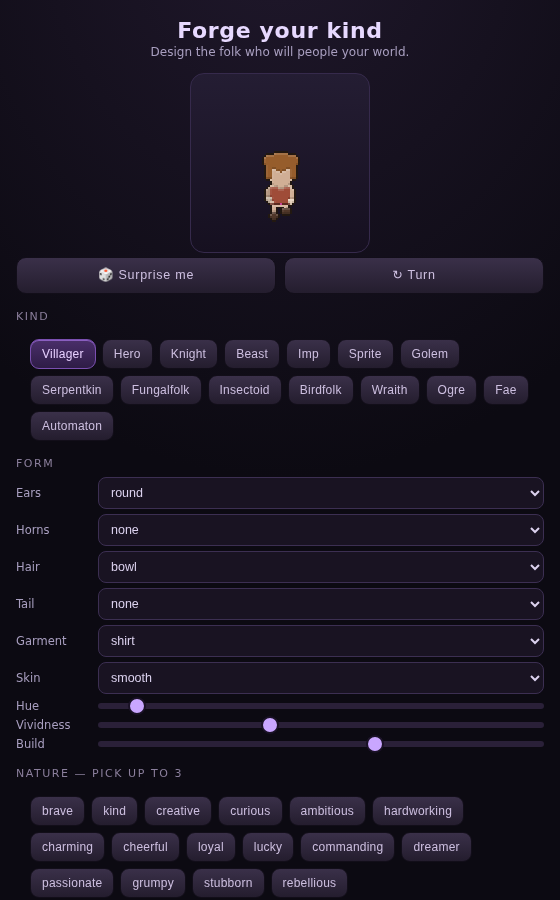
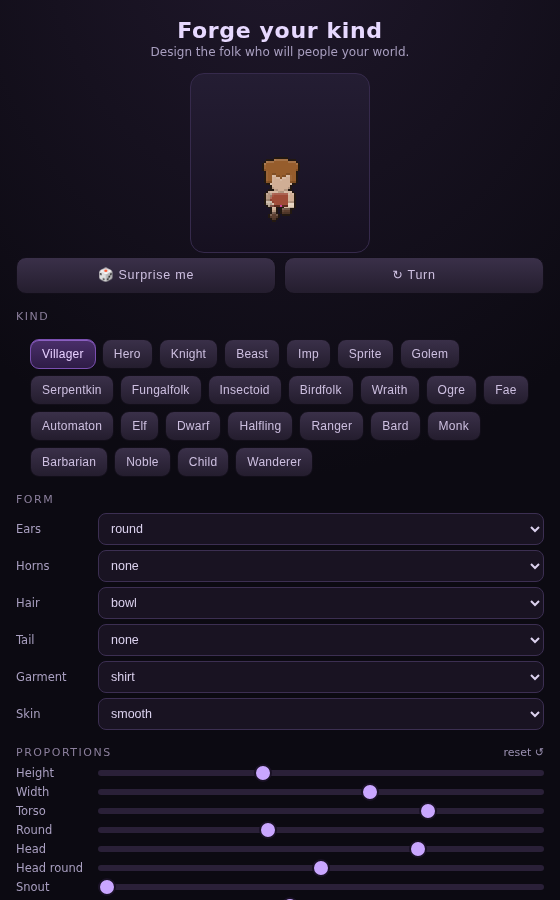
Creator: proportion sliders, smaller default bodies & 10 humanoid presets (#72)
Bring the Creature Forge's body-part size sliders back into the Forge
Your Kind screen — a Proportions section with height, width, torso,
roundness, head, snout, ear/horn size, arm & leg length/thickness,
stance, feet and tail size, plus a reset. Values sync from the picked
preset and drive the live preview.

Shrink bodies overall: the default build drops (bodyH 8->6, bodyW
4->3.5, legLen 6.5->6) so folk read smaller and less chunky by default,
while the sliders still reach the old sizes.

Add 10 humanoid preset kinds: Elf, Dwarf, Halfling, Ranger, Bard, Monk,
Barbarian, Noble, Child and Wanderer — people-shaped, smaller-framed
variations built for populating settlements.

Claude-Session: https://claude.ai/code/session_01LBJLomQRzXkWuF2xNSsFeU

Changed region(s): [[0.0304, 0.4356, 0.9714, 1.0], [0.4554, 0.1556, 0.5464, 0.2489], [0.0304, 0.6222, 0.0911, 0.7156]]

diff --git a/dist/seed-and-sage.html b/dist/seed-and-sage.html
@@ -1400,8 +1400,8 @@ const SCHEMA=[
   {k:'crest',g:'Head',l:'Crest / mohawk',t:'c',d:false},
   {k:'hairType',g:'Head',l:'Hair',t:'sel',opts:['none','tuft','spiky','wild','swept','mohawk','curly','topknot','ponytail','bowl','long','braids','dreads','afro','fauxhawk','bun','pixie','fringe','horns','flame','tendrils'],d:'bowl'},
   {k:'hairHue',g:'Head',l:'Hair hue',t:'r',min:0,max:360,st:1,d:25},
-  {k:'bodyW',g:'Body',l:'Width',t:'r',min:2,max:5.25,st:.25,d:4},
-  {k:'bodyH',g:'Body',l:'Height',t:'r',min:4.5,max:9.5,st:.5,d:8},
+  {k:'bodyW',g:'Body',l:'Width',t:'r',min:2,max:5.25,st:.25,d:3.5},
+  {k:'bodyH',g:'Body',l:'Height',t:'r',min:4,max:9.5,st:.5,d:6},
   {k:'taper',g:'Body',l:'Taper (pear ↔ buff)',t:'r',min:-.35,max:-.15,st:.05,d:-.25},
   {k:'bodyRound',g:'Body',l:'Roundness',t:'r',min:.35,max:.75,st:.01,d:.5},
   {k:'belly',g:'Body',l:'Belly patch',t:'c',d:true},
@@ -1409,7 +1409,7 @@ const SCHEMA=[
   {k:'armThick',g:'Arms',l:'Thickness',t:'r',min:1.2,max:1.6,st:.1,d:1.4},
   {k:'handSize',g:'Arms',l:'Hand size',t:'r',min:1.3,max:1.8,st:.1,d:1.5},
   {k:'armSpread',g:'Arms',l:'Shoulder spread',t:'r',min:0,max:1,st:.25,d:.5},
-  {k:'legLen',g:'Legs',l:'Length',t:'r',min:6,max:7,st:.5,d:6.5},
+  {k:'legLen',g:'Legs',l:'Length',t:'r',min:5,max:7,st:.5,d:6},
   {k:'legThick',g:'Legs',l:'Thickness',t:'r',min:1.4,max:2,st:.1,d:1.7},
   {k:'stance',g:'Legs',l:'Stance width',t:'r',min:1.5,max:2.5,st:.25,d:2.25},
   {k:'footSize',g:'Legs',l:'Foot size',t:'r',min:1.8,max:2.4,st:.1,d:2.1},
@@ -1986,6 +1986,38 @@ const PRESETS={
     cloth:'none',belt:false,chest:'full',helmet:'full',pauldrons:true,boots:true,gauntlets:true,shoes:false,
     spikes:'none',tex:'smooth',attackStyle:'slash',bodyW:4.25,bodyH:8,taper:-.3,bodyRound:.4,legLen:6.5,
     headSize:.3,headRound:.65,hue:210,sat:12,lit:56,metalHue:210,metalLit:60},
+  // ---- humanoid folk (smaller, people-shaped) ----
+  Elf:{earType:'pointed',earSize:3.5,hornType:'none',tailType:'none',hairType:'ponytail',hairHue:40,snout:0,
+    cloth:'tunic',belt:true,chest:'none',helmet:'none',boots:true,shoes:true,spikes:'none',tex:'smooth',
+    attackStyle:'stab',bodyW:3,bodyH:6.5,taper:-.2,legLen:7,armLen:5,headSize:.5,hue:28,sat:26,lit:70,clothHue:150},
+  Dwarf:{earType:'round',earSize:2,hornType:'none',tailType:'none',hairType:'wild',hairHue:20,snout:0,
+    cloth:'tunic',belt:true,chest:'half',helmet:'none',boots:true,shoes:true,spikes:'none',tex:'smooth',
+    attackStyle:'slash',bodyW:4.5,bodyH:4.5,taper:-.2,legLen:5,legThick:2,armLen:4.5,armThick:1.6,headSize:.6,
+    hue:22,sat:34,lit:60,clothHue:20,metalHue:30},
+  Halfling:{earType:'round',earSize:2.5,hornType:'none',tailType:'none',hairType:'curly',hairHue:30,snout:0,
+    cloth:'shirt',belt:true,chest:'none',helmet:'none',boots:false,shoes:false,spikes:'none',tex:'smooth',
+    attackStyle:'stab',bodyW:3.25,bodyH:4,taper:-.2,legLen:5,armLen:4,headSize:.8,headRound:.9,hue:30,sat:36,lit:66},
+  Ranger:{earType:'round',earSize:2,hornType:'none',tailType:'none',hairType:'swept',hairHue:18,snout:0,
+    cloth:'tunic',belt:true,chest:'none',helmet:'none',boots:true,shoes:true,spikes:'none',tex:'smooth',
+    attackStyle:'stab',bodyW:3.5,bodyH:6,legLen:6.5,armLen:5,headSize:.5,hue:110,sat:30,lit:48,clothHue:110},
+  Bard:{earType:'pointed',earSize:2.5,hornType:'none',tailType:'none',hairType:'topknot',hairHue:280,snout:0,
+    cloth:'robe',belt:true,chest:'none',helmet:'none',boots:false,shoes:true,spikes:'none',tex:'smooth',
+    attackStyle:'cast',bodyW:3.25,bodyH:6,legLen:6,armLen:4.5,headSize:.5,hue:300,sat:40,lit:64,clothHue:290},
+  Monk:{earType:'round',earSize:2,hornType:'none',tailType:'none',hairType:'none',snout:0,
+    cloth:'robe',belt:true,chest:'none',helmet:'none',boots:false,shoes:false,spikes:'none',tex:'smooth',
+    attackStyle:'claw',bodyW:3.5,bodyH:6,legLen:6,armLen:5,headSize:.55,headRound:.92,hue:32,sat:24,lit:58,clothHue:32},
+  Barbarian:{earType:'round',earSize:2,hornType:'none',tailType:'none',hairType:'mohawk',hairHue:15,snout:0,
+    cloth:'none',belt:true,chest:'none',helmet:'none',pauldrons:true,boots:true,shoes:false,spikes:'none',tex:'fur',texAmt:.5,
+    attackStyle:'slash',bodyW:4.5,bodyH:6.5,taper:-.3,legLen:6,legThick:2,armLen:5,armThick:1.6,headSize:.45,hue:20,sat:30,lit:56},
+  Noble:{earType:'round',earSize:2,hornType:'none',tailType:'none',hairType:'bun',hairHue:45,snout:0,
+    cloth:'robe',belt:true,chest:'none',helmet:'none',boots:false,shoes:true,gauntlets:false,spikes:'none',tex:'smooth',
+    attackStyle:'cast',bodyW:3.25,bodyH:6.5,legLen:6.5,armLen:4.5,headSize:.5,hue:270,sat:38,lit:62,clothHue:275,metalHue:45},
+  Child:{earType:'round',earSize:2.5,hornType:'none',tailType:'none',hairType:'bowl',hairHue:28,snout:0,
+    cloth:'shirt',belt:false,chest:'none',helmet:'none',boots:false,shoes:true,spikes:'none',tex:'smooth',
+    attackStyle:'stab',bodyW:3,bodyH:4,taper:-.15,legLen:5,armLen:4,headSize:.9,headRound:.92,footSize:1.9,hue:30,sat:40,lit:68},
+  Wanderer:{earType:'pointed',earSize:2.5,hornType:'none',tailType:'none',hairType:'fringe',hairHue:12,snout:0,
+    cloth:'robe',belt:true,chest:'none',helmet:'none',boots:true,shoes:true,spikes:'none',tex:'smooth',
+    attackStyle:'stab',bodyW:3.5,bodyH:6,legLen:6,armLen:4.5,headSize:.5,hue:35,sat:22,lit:52,clothHue:35},
 };
 
 function rasterToImageData(r){
@@ -16024,6 +16056,13 @@ const Creator = (function(){
     hardy:{n:'Hardy',d:'faster stamina'},
   };
   const PARTS=[['earType','Ears'],['hornType','Horns'],['hairType','Hair'],['tailType','Tail'],['cloth','Garment'],['tex','Skin']];
+  // body-part size sliders (brought back from the Creature Forge)
+  const PROPS=[['bodyH','Height'],['bodyW','Width'],['taper','Torso'],['bodyRound','Round'],
+    ['headSize','Head'],['headRound','Head round'],['snout','Snout'],
+    ['earSize','Ear size'],['hornSize','Horn size'],
+    ['armLen','Arm len'],['armThick','Arm thick'],['handSize','Hands'],
+    ['legLen','Leg len'],['legThick','Leg thick'],['stance','Stance'],['footSize','Feet'],
+    ['tailSize','Tail size']];
   const TRAIT_KEYS=['brave','kind','creative','curious','ambitious','hardworking','charming','cheerful','loyal','lucky','commanding','dreamer','passionate','grumpy','stubborn','rebellious'];
   const MAXTRAITS=3, MAXABIL=2;
 
@@ -16067,9 +16106,10 @@ const Creator = (function(){
       <div class="frow"><button class="btn" id="fRand">🎲 Surprise me</button><button class="btn" id="fSpin">↻ Turn</button></div>
       <div class="fsec">Kind</div><div class="chips" id="fPresets"></div>
       <div class="fsec">Form</div><div id="fParts"></div>
+      <div class="fsec">Proportions <span id="fPropReset" style="float:right;color:#9a8fb0;cursor:pointer;letter-spacing:0;text-transform:none">reset ↺</span></div><div id="fProps"></div>
+      <div class="fsec">Colour</div>
       <div class="prow"><label>Hue</label><input type="range" id="fHue" min="0" max="360" step="1"></div>
       <div class="prow"><label>Vividness</label><input type="range" id="fSat" min="0" max="100" step="1"></div>
-      <div class="prow"><label>Build</label><input type="range" id="fSize" min="5.5" max="9.5" step="0.5"></div>
       <div class="fsec">Nature — pick up to ${MAXTRAITS}</div><div class="chips" id="fTraits"></div>
       <div class="fsec">Gift — pick up to ${MAXABIL}</div><div class="chips" id="fAbil"></div>
       <button id="fEnter">Shape your world →</button>
@@ -16099,10 +16139,19 @@ const Creator = (function(){
     for(const k in ABIL){ const b=document.createElement('button'); b.className='chip';
       b.innerHTML=ABIL[k].n+'<small>'+ABIL[k].d+'</small>'; b.dataset.abil=k;
       b.onclick=()=>toggleAbil(k,b); ac.appendChild(b); }
+    // proportion sliders (min/max/step read from the forge schema)
+    const props=$('fProps');
+    for(const [k,label] of PROPS){ const s=CF.SCHEMA.find(x=>x.k===k); if(!s)continue;
+      const row=document.createElement('div'); row.className='prow';
+      const l=document.createElement('label'); l.textContent=label;
+      const inp=document.createElement('input'); inp.type='range'; inp.id='fprop_'+k;
+      inp.min=s.min; inp.max=s.max; inp.step=s.st;
+      inp.oninput=()=>{ params[k]=+inp.value; rebuild(); };
+      row.appendChild(l); row.appendChild(inp); props.appendChild(row); }
+    $('fPropReset').onclick=()=>{ const d=CF.defaultParams(); for(const[k] of PROPS)params[k]=d[k]; rebuild(); syncControls(); };
     // sliders
     $('fHue').oninput=()=>{ params.hue=+$('fHue').value; rebuild(); };
     $('fSat').oninput=()=>{ params.sat=+$('fSat').value; rebuild(); };
-    $('fSize').oninput=()=>{ params.bodyH=+$('fSize').value; rebuild(); };
     $('fRand').onclick=randomize;
     $('fSpin').onclick=()=>{ pvDir=(pvDir+1)%8; };
     $('fEnter').onclick=enter;
@@ -16110,7 +16159,8 @@ const Creator = (function(){
 
   function syncControls(){
     for(const [k] of PARTS){ const sel=$('fpart_'+k); if(sel)sel.value=params[k]; }
-    $('fHue').value=params.hue; $('fSat').value=params.sat; $('fSize').value=params.bodyH;
+    for(const [k] of PROPS){ const inp=$('fprop_'+k); if(inp&&params[k]!=null)inp.value=params[k]; }
+    $('fHue').value=params.hue; $('fSat').value=params.sat;
     for(const b of $('fPresets').children) b.classList.toggle('on', b.dataset.preset===params._preset);
   }
   function setPreset(name){ params=baseParams(name); params._preset=name; rebuild(); syncControls(); }

diff --git a/js/forge.js b/js/forge.js
@@ -104,8 +104,8 @@ const SCHEMA=[
   {k:'crest',g:'Head',l:'Crest / mohawk',t:'c',d:false},
   {k:'hairType',g:'Head',l:'Hair',t:'sel',opts:['none','tuft','spiky','wild','swept','mohawk','curly','topknot','ponytail','bowl','long','braids','dreads','afro','fauxhawk','bun','pixie','fringe','horns','flame','tendrils'],d:'bowl'},
   {k:'hairHue',g:'Head',l:'Hair hue',t:'r',min:0,max:360,st:1,d:25},
-  {k:'bodyW',g:'Body',l:'Width',t:'r',min:2,max:5.25,st:.25,d:4},
-  {k:'bodyH',g:'Body',l:'Height',t:'r',min:4.5,max:9.5,st:.5,d:8},
+  {k:'bodyW',g:'Body',l:'Width',t:'r',min:2,max:5.25,st:.25,d:3.5},
+  {k:'bodyH',g:'Body',l:'Height',t:'r',min:4,max:9.5,st:.5,d:6},
   {k:'taper',g:'Body',l:'Taper (pear ↔ buff)',t:'r',min:-.35,max:-.15,st:.05,d:-.25},
   {k:'bodyRound',g:'Body',l:'Roundness',t:'r',min:.35,max:.75,st:.01,d:.5},
   {k:'belly',g:'Body',l:'Belly patch',t:'c',d:true},
@@ -113,7 +113,7 @@ const SCHEMA=[
   {k:'armThick',g:'Arms',l:'Thickness',t:'r',min:1.2,max:1.6,st:.1,d:1.4},
   {k:'handSize',g:'Arms',l:'Hand size',t:'r',min:1.3,max:1.8,st:.1,d:1.5},
   {k:'armSpread',g:'Arms',l:'Shoulder spread',t:'r',min:0,max:1,st:.25,d:.5},
-  {k:'legLen',g:'Legs',l:'Length',t:'r',min:6,max:7,st:.5,d:6.5},
+  {k:'legLen',g:'Legs',l:'Length',t:'r',min:5,max:7,st:.5,d:6},
   {k:'legThick',g:'Legs',l:'Thickness',t:'r',min:1.4,max:2,st:.1,d:1.7},
   {k:'stance',g:'Legs',l:'Stance width',t:'r',min:1.5,max:2.5,st:.25,d:2.25},
   {k:'footSize',g:'Legs',l:'Foot size',t:'r',min:1.8,max:2.4,st:.1,d:2.1},
@@ -690,6 +690,38 @@ const PRESETS={
     cloth:'none',belt:false,chest:'full',helmet:'full',pauldrons:true,boots:true,gauntlets:true,shoes:false,
     spikes:'none',tex:'smooth',attackStyle:'slash',bodyW:4.25,bodyH:8,taper:-.3,bodyRound:.4,legLen:6.5,
     headSize:.3,headRound:.65,hue:210,sat:12,lit:56,metalHue:210,metalLit:60},
+  // ---- humanoid folk (smaller, people-shaped) ----
+  Elf:{earType:'pointed',earSize:3.5,hornType:'none',tailType:'none',hairType:'ponytail',hairHue:40,snout:0,
+    cloth:'tunic',belt:true,chest:'none',helmet:'none',boots:true,shoes:true,spikes:'none',tex:'smooth',
+    attackStyle:'stab',bodyW:3,bodyH:6.5,taper:-.2,legLen:7,armLen:5,headSize:.5,hue:28,sat:26,lit:70,clothHue:150},
+  Dwarf:{earType:'round',earSize:2,hornType:'none',tailType:'none',hairType:'wild',hairHue:20,snout:0,
+    cloth:'tunic',belt:true,chest:'half',helmet:'none',boots:true,shoes:true,spikes:'none',tex:'smooth',
+    attackStyle:'slash',bodyW:4.5,bodyH:4.5,taper:-.2,legLen:5,legThick:2,armLen:4.5,armThick:1.6,headSize:.6,
+    hue:22,sat:34,lit:60,clothHue:20,metalHue:30},
+  Halfling:{earType:'round',earSize:2.5,hornType:'none',tailType:'none',hairType:'curly',hairHue:30,snout:0,
+    cloth:'shirt',belt:true,chest:'none',helmet:'none',boots:false,shoes:false,spikes:'none',tex:'smooth',
+    attackStyle:'stab',bodyW:3.25,bodyH:4,taper:-.2,legLen:5,armLen:4,headSize:.8,headRound:.9,hue:30,sat:36,lit:66},
+  Ranger:{earType:'round',earSize:2,hornType:'none',tailType:'none',hairType:'swept',hairHue:18,snout:0,
+    cloth:'tunic',belt:true,chest:'none',helmet:'none',boots:true,shoes:true,spikes:'none',tex:'smooth',
+    attackStyle:'stab',bodyW:3.5,bodyH:6,legLen:6.5,armLen:5,headSize:.5,hue:110,sat:30,lit:48,clothHue:110},
+  Bard:{earType:'pointed',earSize:2.5,hornType:'none',tailType:'none',hairType:'topknot',hairHue:280,snout:0,
+    cloth:'robe',belt:true,chest:'none',helmet:'none',boots:false,shoes:true,spikes:'none',tex:'smooth',
+    attackStyle:'cast',bodyW:3.25,bodyH:6,legLen:6,armLen:4.5,headSize:.5,hue:300,sat:40,lit:64,clothHue:290},
+  Monk:{earType:'round',earSize:2,hornType:'none',tailType:'none',hairType:'none',snout:0,
+    cloth:'robe',belt:true,chest:'none',helmet:'none',boots:false,shoes:false,spikes:'none',tex:'smooth',
+    attackStyle:'claw',bodyW:3.5,bodyH:6,legLen:6,armLen:5,headSize:.55,headRound:.92,hue:32,sat:24,lit:58,clothHue:32},
+  Barbarian:{earType:'round',earSize:2,hornType:'none',tailType:'none',hairType:'mohawk',hairHue:15,snout:0,
+    cloth:'none',belt:true,chest:'none',helmet:'none',pauldrons:true,boots:true,shoes:false,spikes:'none',tex:'fur',texAmt:.5,
+    attackStyle:'slash',bodyW:4.5,bodyH:6.5,taper:-.3,legLen:6,legThick:2,armLen:5,armThick:1.6,headSize:.45,hue:20,sat:30,lit:56},
+  Noble:{earType:'round',earSize:2,hornType:'none',tailType:'none',hairType:'bun',hairHue:45,snout:0,
+    cloth:'robe',belt:true,chest:'none',helmet:'none',boots:false,shoes:true,gauntlets:false,spikes:'none',tex:'smooth',
+    attackStyle:'cast',bodyW:3.25,bodyH:6.5,legLen:6.5,armLen:4.5,headSize:.5,hue:270,sat:38,lit:62,clothHue:275,metalHue:45},
+  Child:{earType:'round',earSize:2.5,hornType:'none',tailType:'none',hairType:'bowl',hairHue:28,snout:0,
+    cloth:'shirt',belt:false,chest:'none',helmet:'none',boots:false,shoes:true,spikes:'none',tex:'smooth',
+    attackStyle:'stab',bodyW:3,bodyH:4,taper:-.15,legLen:5,armLen:4,headSize:.9,headRound:.92,footSize:1.9,hue:30,sat:40,lit:68},
+  Wanderer:{earType:'pointed',earSize:2.5,hornType:'none',tailType:'none',hairType:'fringe',hairHue:12,snout:0,
+    cloth:'robe',belt:true,chest:'none',helmet:'none',boots:true,shoes:true,spikes:'none',tex:'smooth',
+    attackStyle:'stab',bodyW:3.5,bodyH:6,legLen:6,armLen:4.5,headSize:.5,hue:35,sat:22,lit:52,clothHue:35},
 };
 
 function rasterToImageData(r){

diff --git a/js/creator.js b/js/creator.js
@@ -22,6 +22,13 @@ const Creator = (function(){
     hardy:{n:'Hardy',d:'faster stamina'},
   };
   const PARTS=[['earType','Ears'],['hornType','Horns'],['hairType','Hair'],['tailType','Tail'],['cloth','Garment'],['tex','Skin']];
+  // body-part size sliders (brought back from the Creature Forge)
+  const PROPS=[['bodyH','Height'],['bodyW','Width'],['taper','Torso'],['bodyRound','Round'],
+    ['headSize','Head'],['headRound','Head round'],['snout','Snout'],
+    ['earSize','Ear size'],['hornSize','Horn size'],
+    ['armLen','Arm len'],['armThick','Arm thick'],['handSize','Hands'],
+    ['legLen','Leg len'],['legThick','Leg thick'],['stance','Stance'],['footSize','Feet'],
+    ['tailSize','Tail size']];
   const TRAIT_KEYS=['brave','kind','creative','curious','ambitious','hardworking','charming','cheerful','loyal','lucky','commanding','dreamer','passionate','grumpy','stubborn','rebellious'];
   const MAXTRAITS=3, MAXABIL=2;
 
@@ -65,9 +72,10 @@ const Creator = (function(){
       <div class="frow"><button class="btn" id="fRand">🎲 Surprise me</button><button class="btn" id="fSpin">↻ Turn</button></div>
       <div class="fsec">Kind</div><div class="chips" id="fPresets"></div>
       <div class="fsec">Form</div><div id="fParts"></div>
+      <div class="fsec">Proportions <span id="fPropReset" style="float:right;color:#9a8fb0;cursor:pointer;letter-spacing:0;text-transform:none">reset ↺</span></div><div id="fProps"></div>
+      <div class="fsec">Colour</div>
       <div class="prow"><label>Hue</label><input type="range" id="fHue" min="0" max="360" step="1"></div>
       <div class="prow"><label>Vividness</label><input type="range" id="fSat" min="0" max="100" step="1"></div>
-      <div class="prow"><label>Build</label><input type="range" id="fSize" min="5.5" max="9.5" step="0.5"></div>
       <div class="fsec">Nature — pick up to ${MAXTRAITS}</div><div class="chips" id="fTraits"></div>
       <div class="fsec">Gift — pick up to ${MAXABIL}</div><div class="chips" id="fAbil"></div>
       <button id="fEnter">Shape your world →</button>
@@ -97,10 +105,19 @@ const Creator = (function(){
     for(const k in ABIL){ const b=document.createElement('button'); b.className='chip';
       b.innerHTML=ABIL[k].n+'<small>'+ABIL[k].d+'</small>'; b.dataset.abil=k;
       b.onclick=()=>toggleAbil(k,b); ac.appendChild(b); }
+    // proportion sliders (min/max/step read from the forge schema)
+    const props=$('fProps');
+    for(const [k,label] of PROPS){ const s=CF.SCHEMA.find(x=>x.k===k); if(!s)continue;
+      const row=document.createElement('div'); row.className='prow';
+      const l=document.createElement('label'); l.textContent=label;
+      const inp=document.createElement('input'); inp.type='range'; inp.id='fprop_'+k;
+      inp.min=s.min; inp.max=s.max; inp.step=s.st;
+      inp.oninput=()=>{ params[k]=+inp.value; rebuild(); };
+      row.appendChild(l); row.appendChild(inp); props.appendChild(row); }
+    $('fPropReset').onclick=()=>{ const d=CF.defaultParams(); for(const[k] of PROPS)params[k]=d[k]; rebuild(); syncControls(); };
     // sliders
     $('fHue').oninput=()=>{ params.hue=+$('fHue').value; rebuild(); };
     $('fSat').oninput=()=>{ params.sat=+$('fSat').value; rebuild(); };
-    $('fSize').oninput=()=>{ params.bodyH=+$('fSize').value; rebuild(); };
     $('fRand').onclick=randomize;
     $('fSpin').onclick=()=>{ pvDir=(pvDir+1)%8; };
     $('fEnter').onclick=enter;
@@ -108,7 +125,8 @@ const Creator = (function(){
 
   function syncControls(){
     for(const [k] of PARTS){ const sel=$('fpart_'+k); if(sel)sel.value=params[k]; }
-    $('fHue').value=params.hue; $('fSat').value=params.sat; $('fSize').value=params.bodyH;
+    for(const [k] of PROPS){ const inp=$('fprop_'+k); if(inp&&params[k]!=null)inp.value=params[k]; }
+    $('fHue').value=params.hue; $('fSat').value=params.sat;
     for(const b of $('fPresets').children) b.classList.toggle('on', b.dataset.preset===params._preset);
   }
   function setPreset(name){ params=baseParams(name); params._preset=name; rebuild(); syncControls(); }
